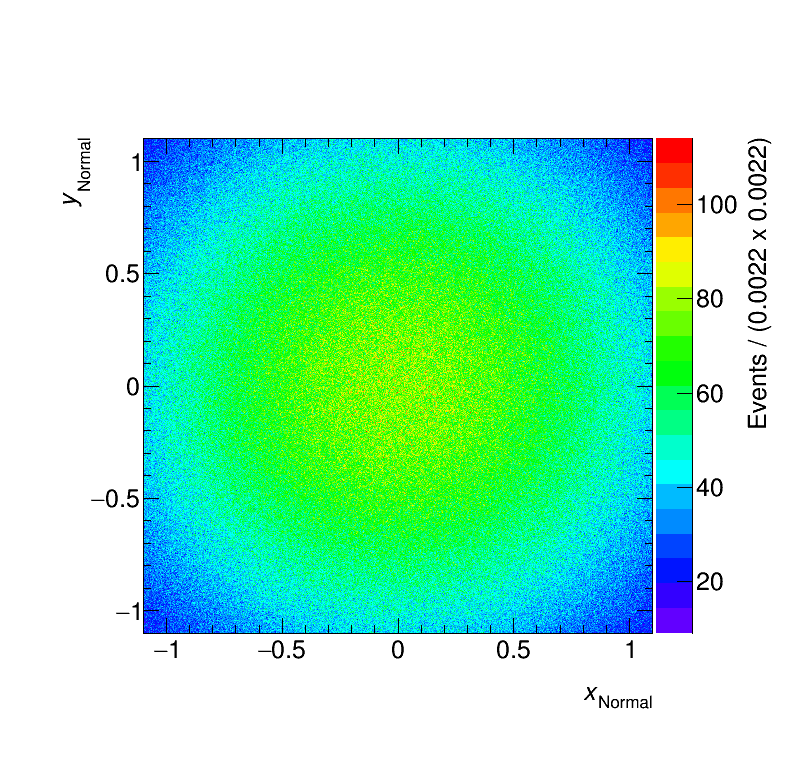
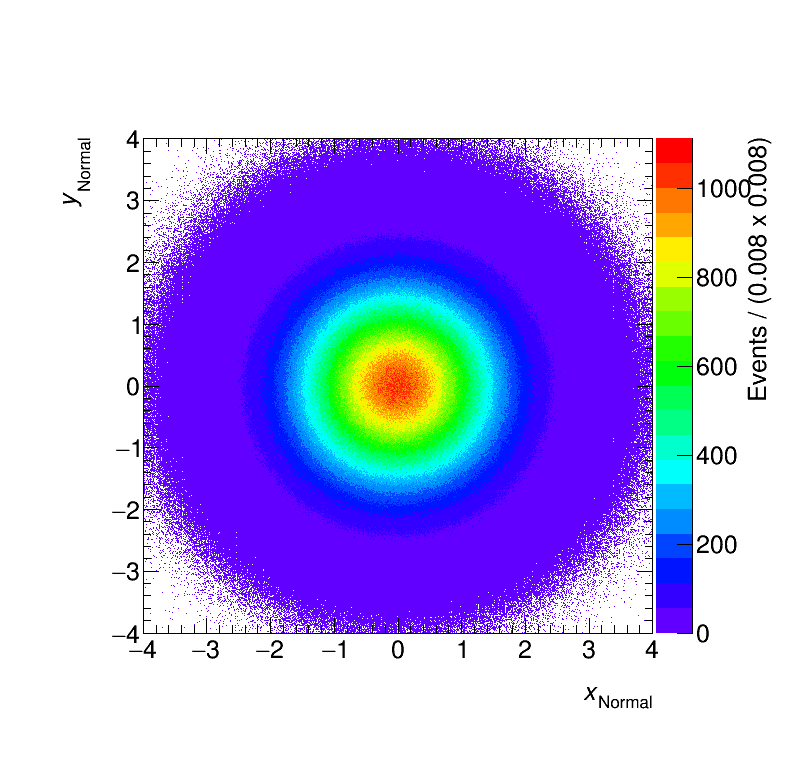
Final outputs for hw1, fixed axes ranges

diff --git a/hw1/16.2/src/main.C b/hw1/16.2/src/main.C
@@ -144,8 +144,8 @@ int main(){
   char buffer[300]; int tmp; (void)tmp; // Cast tmp to void to suppress unused var warning
 
   int nbins = 1000;
-  double axis_min = -1.1;
-  double axis_max = 1.1;
+  double axis_min = -4.0;
+  double axis_max = 4.0;
 
   TH1::SetDefaultSumw2(1); // All hist uncertainty tracking
 
@@ -158,7 +158,7 @@ int main(){
   }
 
   // Fit
-  TF2 *f_2d_gaus = new TF2("f_2d_gaus", fun2,0.0,1.0,0.0,1.0,5);
+  TF2 *f_2d_gaus = new TF2("f_2d_gaus", fun2,-4.0,4.0,-4.0,4.0,5);
   f_2d_gaus->SetParName(0, "amplitude");
   f_2d_gaus->SetParName(1, "x mean");
   f_2d_gaus->SetParName(2, "x std dev");
@@ -193,7 +193,7 @@ int main(){
 
   square_hist->Draw("COLZ");
 
-  c2->Print(OUTPUT_PATH+"/normal.pdf", "pdf");
+//  c2->Print(OUTPUT_PATH+"/normal.pdf", "pdf");
   c2->Print(OUTPUT_PATH+"/normal.png", "png");
 
   cout << endl;

diff --git a/hw1/16.1/src/main.C b/hw1/16.1/src/main.C
@@ -190,7 +190,7 @@ int main(){
 //  square_hist->Draw("LEGO0");
   square_hist->Draw("SURF20Z");
 
-  c2->Print(OUTPUT_PATH+"/uniform_fit_3d.pdf", "pdf");
+//  c2->Print(OUTPUT_PATH+"/uniform_fit_3d.pdf", "pdf");
   c2->Print(OUTPUT_PATH+"/uniform_fit_3d.png", "png");
 
 
